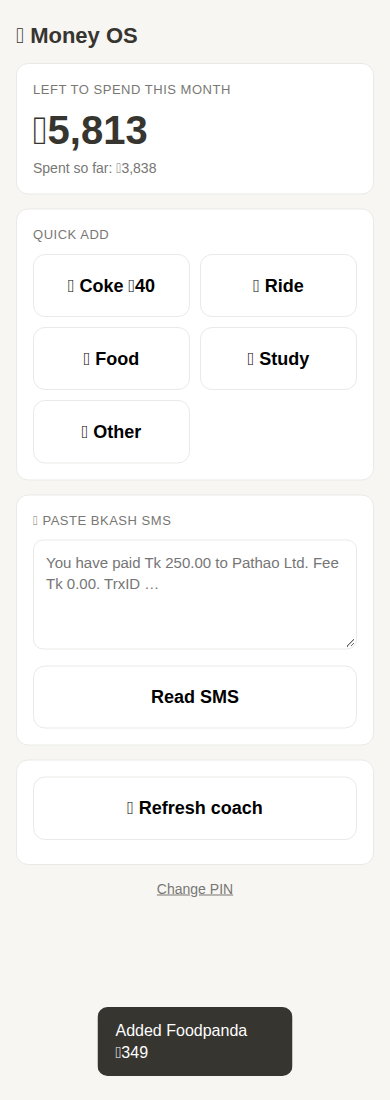
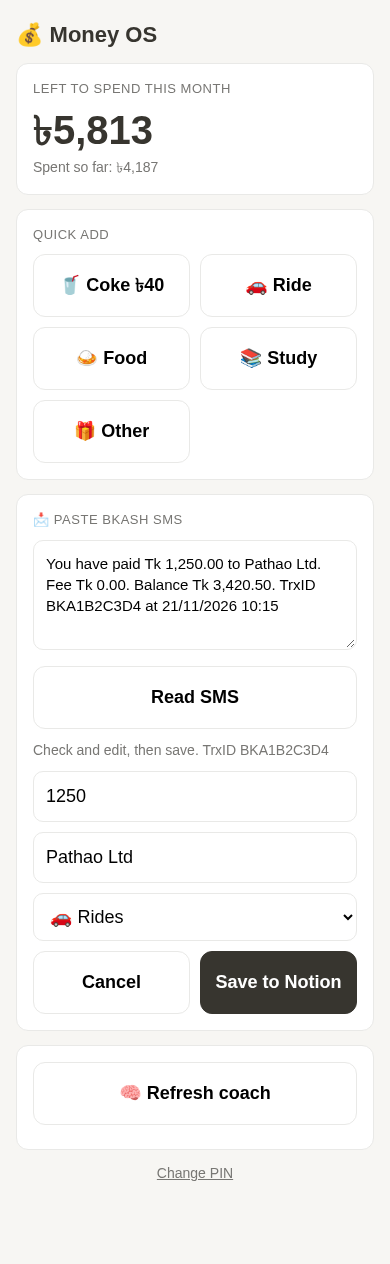
docs: add-ons README

diff --git a/README.md b/README.md
@@ -36,6 +36,48 @@ It extends the Student OS from the Notion Campus Leaders workshop (Courses, Assi
 
 **Optional Courses link:** set `NOTION_COURSES_DB_ID` and expenses get a one-way `Course` relation to your existing Student OS Courses database (e.g. printing or a textbook for CSE220). Your Courses database isn't modified.
 
+## 🧠 Smart add-ons: Coach, phone quick-add, bKash SMS
+
+The Notion section organises money; the add-ons **decide** things and make logging effortless.
+
+![Quick-add web app](docs/screenshots/web-app.png)
+
+### 1. Money Coach (`npm run coach`)
+Reads this month's Expenses, the Wallet totals and your Goals, then writes a **🧠 Money Coach · 21 Nov 2026** page under 💰 Money (the first insight as a callout, the rest as bullets). Rules, not AI: free, no API key, the same answer every time.
+
+Sample output for the seeded month:
+- 🚗 Rides is your top drain: 47% of spending (৳1,790 of ৳3,798).
+- 🥤 Snacks & Drinks: 6 buys so far, ৳270. Small, but it adds up.
+- Your average ride costs ৳224. Skipping 2 rides a week saves about ৳1,924/month.
+- 🎯 Emergency fund: ৳7,500 to go. At ৳6,202/month that's 1.2 months; with the cut it's 0.9 months, 1 week sooner.
+- 📈 At this pace you'll spend ৳5,426 this month: on track with your ৳10,000 income.
+
+Edge cases: no expenses → "No spending logged this month yet."; Left to Spend ≤ 0 → "At current spending you won't reach …" (no divide-by-zero); finished or missing goals are skipped.
+
+### 2. Quick-add web app (phone)
+A mobile page with big buttons: **🥤 Coke ৳40** (one tap), plus 🚗 Ride, 🍛 Food, 📚 Study and 🎁 Other (number keypad for the amount). It shows **Left to Spend** from the Wallet, and a **🧠 Refresh coach** button runs the coach from your phone. Each tap creates an Expense in Notion (Date today, Category and Wallet set), so the dashboard updates live.
+
+- Static `public/index.html` (vanilla JS) + Vercel serverless functions in `api/` (`/api/add`, `/api/summary`, `/api/coach`).
+- **The Notion token never reaches the browser**; it lives in server env vars.
+- **PIN gate:** every `api/*` call needs header `x-pin` = `APP_PIN`, otherwise 401 and nothing is written. The page asks for the PIN once and remembers it.
+- Deployed URL: _see below_ (PIN not published).
+
+### 3. bKash SMS paste
+Paste a bKash SMS → **Read SMS** → an editable preview (amount, name = merchant, guessed category) → **Save to Notion** with Paid With = bKash. Nothing is saved without your confirmation; an SMS it can't read shows *"Couldn't read this SMS — enter it manually"*. "Received" SMS are recognised and pointed to the Income database.
+
+- `parseSms(text)` → `{amount, merchant, trxId, kind}` handles `Tk` / `৳` / `BDT`, comma amounts (`Tk 1,250.00` → 1250), "You have paid", "Payment", "Send Money", "Cash Out" and "received".
+- `guessCategory(merchant)`: Pathao/Uber/Obhai/Shohoz → 🚗 Rides; Foodpanda/Pathao Food/KFC/cafe → 🍛 Food; Spotify/Netflix/YouTube/Google/ChatGPT → 📺 Subscriptions; else 🎁 Other.
+- Parsing runs in the browser (`public/sms.js` is a tested copy of `src/sms.js`). Fixtures live in `test/fixtures/sms.txt`.
+
+### Add-on setup
+1. Get the IDs of your existing Money section (setup also prints them at the end):
+   ```bash
+   npm run ids     # prints EXPENSES_DS_ID, CATEGORIES_DS_ID, GOALS_DS_ID, WALLET_PAGE_ID, MONEY_PAGE_ID
+   ```
+   Paste them into `.env` and add `APP_PIN=<your pin>`.
+2. Try it locally: `npm run coach`, or `npm run dev` → <http://localhost:3000>.
+3. **Deploy to Vercel (free):** import the GitHub repo at <https://vercel.com/new> (framework preset: *Other*, no build command), or run `npx vercel --prod`. In **Settings → Environment Variables**, add `NOTION_TOKEN`, `APP_PIN`, `EXPENSES_DS_ID`, `CATEGORIES_DS_ID`, `GOALS_DS_ID`, `WALLET_PAGE_ID`, `MONEY_PAGE_ID`, then redeploy. Open the URL on your phone and tap 🥤.
+
 ## How I used Devin Chat
 
 Design brainstorming (the problem, data model and approach) was done with **Claude**, producing a written spec and a task-by-task plan, both in [`docs/superpowers/`](docs/superpowers). **Devin** then built the whole project from the chat:
@@ -51,6 +93,14 @@ Design brainstorming (the problem, data model and approach) was done with **Clau
 - **Task 4:** realistic, month-safe sample data (`src/seed.js`), tested for the 1st and the 30th of a month
 - **Task 5:** `npm run setup`, run against my real workspace and verified (Left to Spend ৳6,202 = ৳10,000 − ৳3,798; Rides is the biggest category)
 - **Task 6:** this README
+
+3. *"Read `docs/superpowers/specs/2026-11-21-money-os-smart-addons-design.md`, then execute `docs/superpowers/plans/2026-11-21-money-os-smart-addons.md` task by task, committing after each. Tasks are in priority order; if time gets short, finish the current task, push, and stop. Use my existing Notion secrets, plus `APP_PIN` as a new secret. Keep it simple: this is a hackathon build due at 6 PM."*
+
+**Add-ons Devin built** (again one commit per task):
+- **Task 1:** `npm run ids` finds the existing Money section and prints the IDs the add-ons need
+- **Task 2:** the Money Coach (`src/coach.js`), test-first, then run against the real workspace. Devin also caught an arithmetic slip in the plan's test (avg ৳200 × 2 × 4.3 is ৳1,720, not ৳3,440) and fixed the fixture
+- **Task 3:** the PIN-gated quick-add app; verified that a 🥤 tap drops Left to Spend by ৳40 in Notion and that a missing PIN gives 401. It also worked around Notion rollups lagging a few seconds after a write
+- **Task 4:** bKash SMS parsing (`src/sms.js`) with fixtures and an in-browser preview, verified end to end (row saved with Paid With = bKash)
 
 Devin also handled the setup hiccups along the way. When I pasted the token into the page-ID secret, it told me the exact error, then waited until the page was shared with the integration before rerunning the check.
 
@@ -88,11 +138,13 @@ The Notion API can't create charts, buttons, reminders or formula bar displays, 
 ## Testing
 
 ```bash
-npm test        # unit tests (node:test): config, error messages, schema, sample data
+npm test        # unit tests (node:test): config, errors, schema, seed, coach, PIN gate, SMS parsing
 npm run check   # live check against your Notion workspace
 ```
 
-The tests cover the plan's review focus points: an expense with no date counts as ৳0 (not an error), a goal with Target 0 shows 0 progress (no divide-by-zero), sample dates stay within the current month whether you run it on the 1st or the 30th, and Rides is always the biggest category.
+The add-on tests cover: no expenses → one coach line; Left to Spend ≤ 0 → "won't reach" with no `Infinity`/`NaN`; `Tk 1,250.00` → 1250; an unreadable SMS → `kind: 'unknown'`, `amount: null`; and a wrong or missing PIN → 401 (`checkPin` is false when `APP_PIN` is unset).
+
+The original tests cover the plan's review focus points: an expense with no date counts as ৳0 (not an error), a goal with Target 0 shows 0 progress (no divide-by-zero), sample dates stay within the current month whether you run it on the 1st or the 30th, and Rides is always the biggest category.
 
 ## Project structure
 
@@ -104,11 +156,19 @@ src/seed.js         sample data (month-safe dates)
 src/notion.js       thin wrappers over @notionhq/client (Notion-Version 2025-09-03, data sources)
 src/check-rollup.js npm run check (feasibility check, cleans up after itself)
 src/setup.js        npm run setup (builds the Money section)
+src/ids.js          finds/prints the add-on IDs (npm run ids)
+src/coach.js        Money Coach rules + Notion read/write (npm run coach)
+src/sms.js          bKash SMS parser + category guess (copied to public/sms.js)
+api/                Vercel functions: add, summary, coach (+ _auth.js PIN gate)
+public/index.html   mobile quick-add web app
+dev-server.js       local stand-in for Vercel (npm run dev)
 test/               node:test unit tests
 docs/superpowers/   design spec and implementation plan
 docs/screenshots/   screenshots
 ```
 
 ## Screenshots
+
+![Quick-add web app with an SMS preview](docs/screenshots/web-app.png)
 
 _Add screenshots of the Money dashboard to `docs/screenshots/` after the manual steps._
